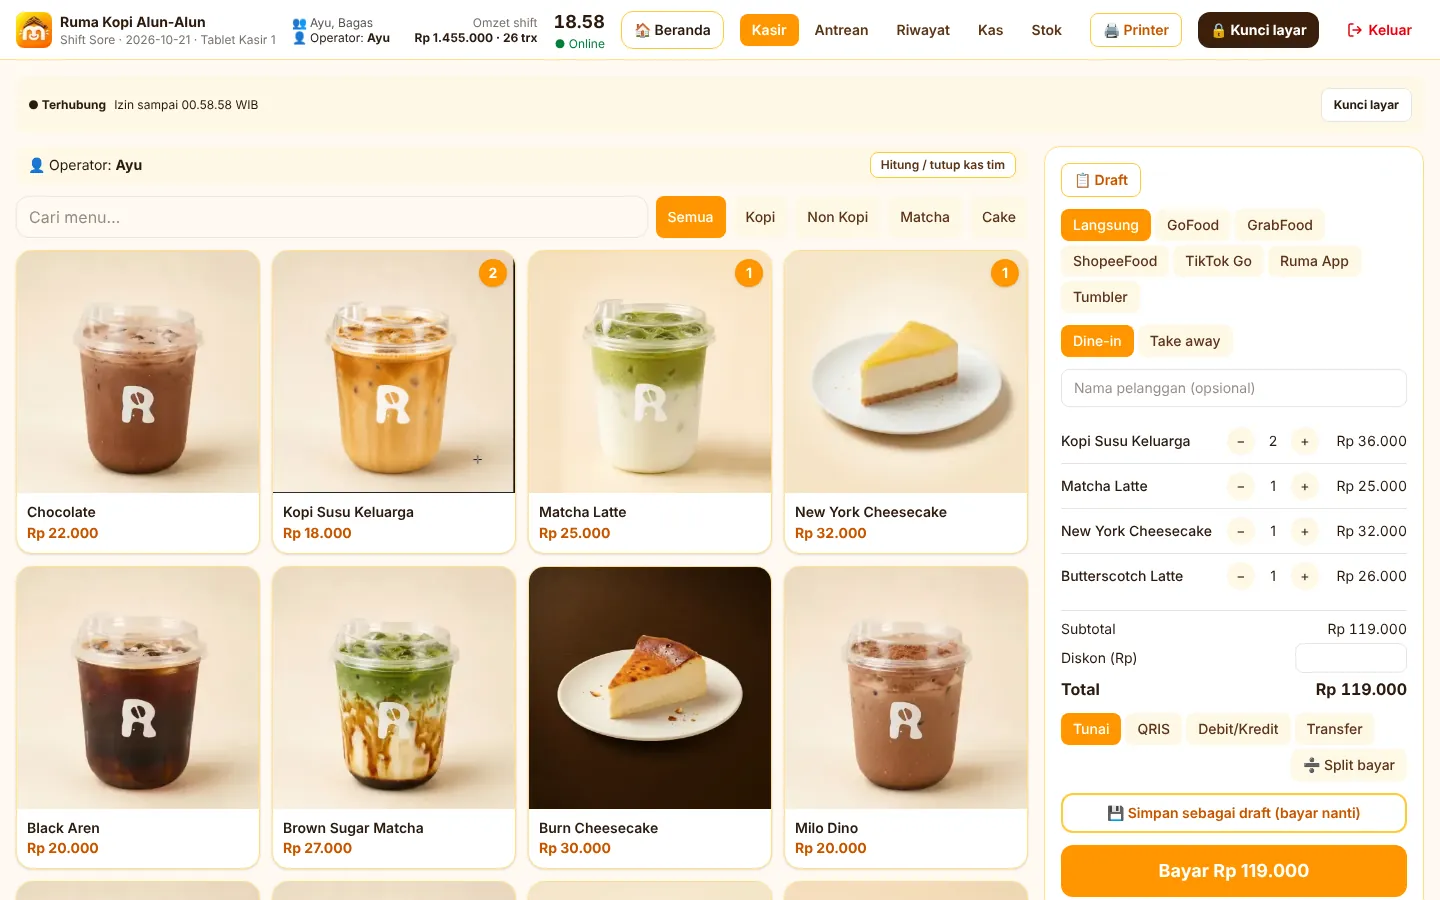
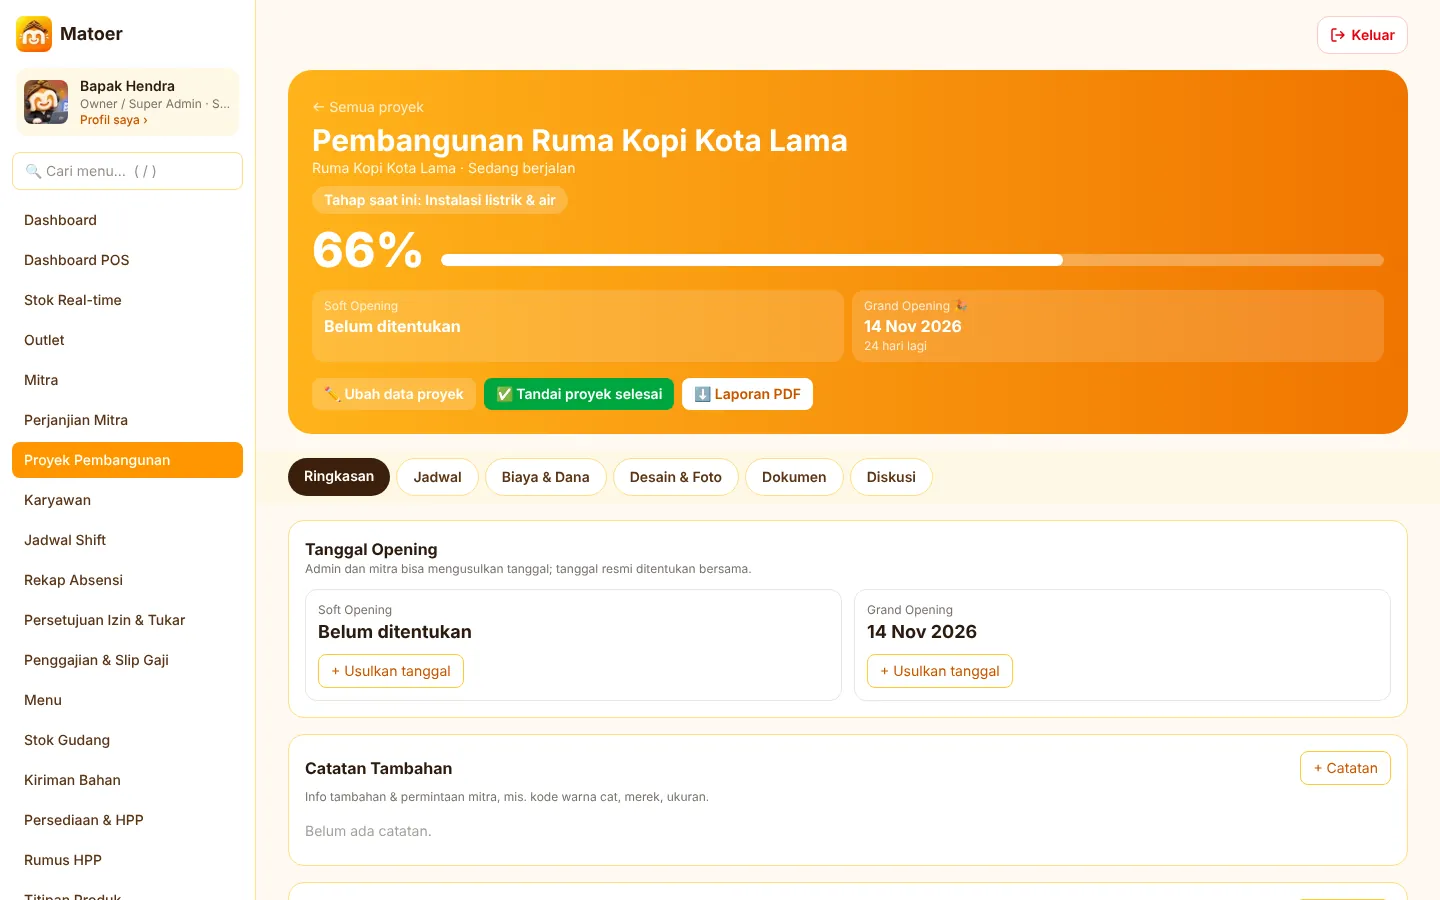
Hapus tampilan kasir POS dari galeri Matoer agar menu tidak terlihat
Galeri kini 4 tampilan: Dashboard POS, proyek pembangunan, portal mitra,
dan aplikasi karyawan di HP.

Claude-Session: https://claude.ai/code/session_0199ojBBkPhcv8NskrtNCZN5

diff --git a/index.html b/index.html
@@ -134,14 +134,14 @@
 
         <div class="grid grid--4" id="designGrid">
           <article class="card design" data-cat="sistem">
-            <button type="button" class="design__thumb js-gallery" data-gallery="matoer" data-count="5" data-title="Sistem ERP Jaringan Coffeeshop" aria-label="Lihat tampilan Sistem ERP Jaringan Coffeeshop">
+            <button type="button" class="design__thumb js-gallery" data-gallery="matoer" data-count="4" data-title="Sistem ERP Jaringan Coffeeshop" aria-label="Lihat tampilan Sistem ERP Jaringan Coffeeshop">
               <img src="assets/img/karya/matoer-thumb.webp" alt="Tampilan Sistem ERP Jaringan Coffeeshop" width="880" height="550" loading="lazy" />
             </button>
             <div class="design__body">
               <h3>Sistem ERP Jaringan Coffeeshop</h3>
               <p class="design__meta">Sistem / ERP · Multi Outlet</p>
               <div class="design__actions">
-                <button type="button" class="btn btn--ghost btn--sm js-gallery" data-gallery="matoer" data-count="5" data-title="Sistem ERP Jaringan Coffeeshop">Lihat</button>
+                <button type="button" class="btn btn--ghost btn--sm js-gallery" data-gallery="matoer" data-count="4" data-title="Sistem ERP Jaringan Coffeeshop">Lihat</button>
                 <a href="#" class="btn btn--primary btn--sm js-wa" data-wa="Halo Youcanbuild, saya tertarik dibuatkan sistem terintegrasi untuk bisnis multi-outlet seperti Matoer di portofolio Anda.">Buat Serupa</a>
               </div>
             </div>
@@ -442,9 +442,9 @@
 
         <div class="projects">
           <article class="card proj">
-            <button type="button" class="proj__shot js-gallery" data-gallery="matoer" data-count="5" data-title="Matoer — Sistem Terintegrasi Jaringan Coffeeshop" aria-label="Lihat tampilan Matoer — Sistem Terintegrasi Jaringan Coffeeshop">
+            <button type="button" class="proj__shot js-gallery" data-gallery="matoer" data-count="4" data-title="Matoer — Sistem Terintegrasi Jaringan Coffeeshop" aria-label="Lihat tampilan Matoer — Sistem Terintegrasi Jaringan Coffeeshop">
               <img src="assets/img/karya/matoer-1.webp" alt="Dashboard penjualan Matoer untuk owner jaringan coffeeshop" width="1440" height="900" loading="lazy" />
-              <span class="proj__zoom">Lihat 5 tampilan ↗</span>
+              <span class="proj__zoom">Lihat 4 tampilan ↗</span>
             </button>
             <div class="proj__body">
               <span class="proj__tag">Sistem / ERP Perusahaan · Proyek Unggulan</span>
